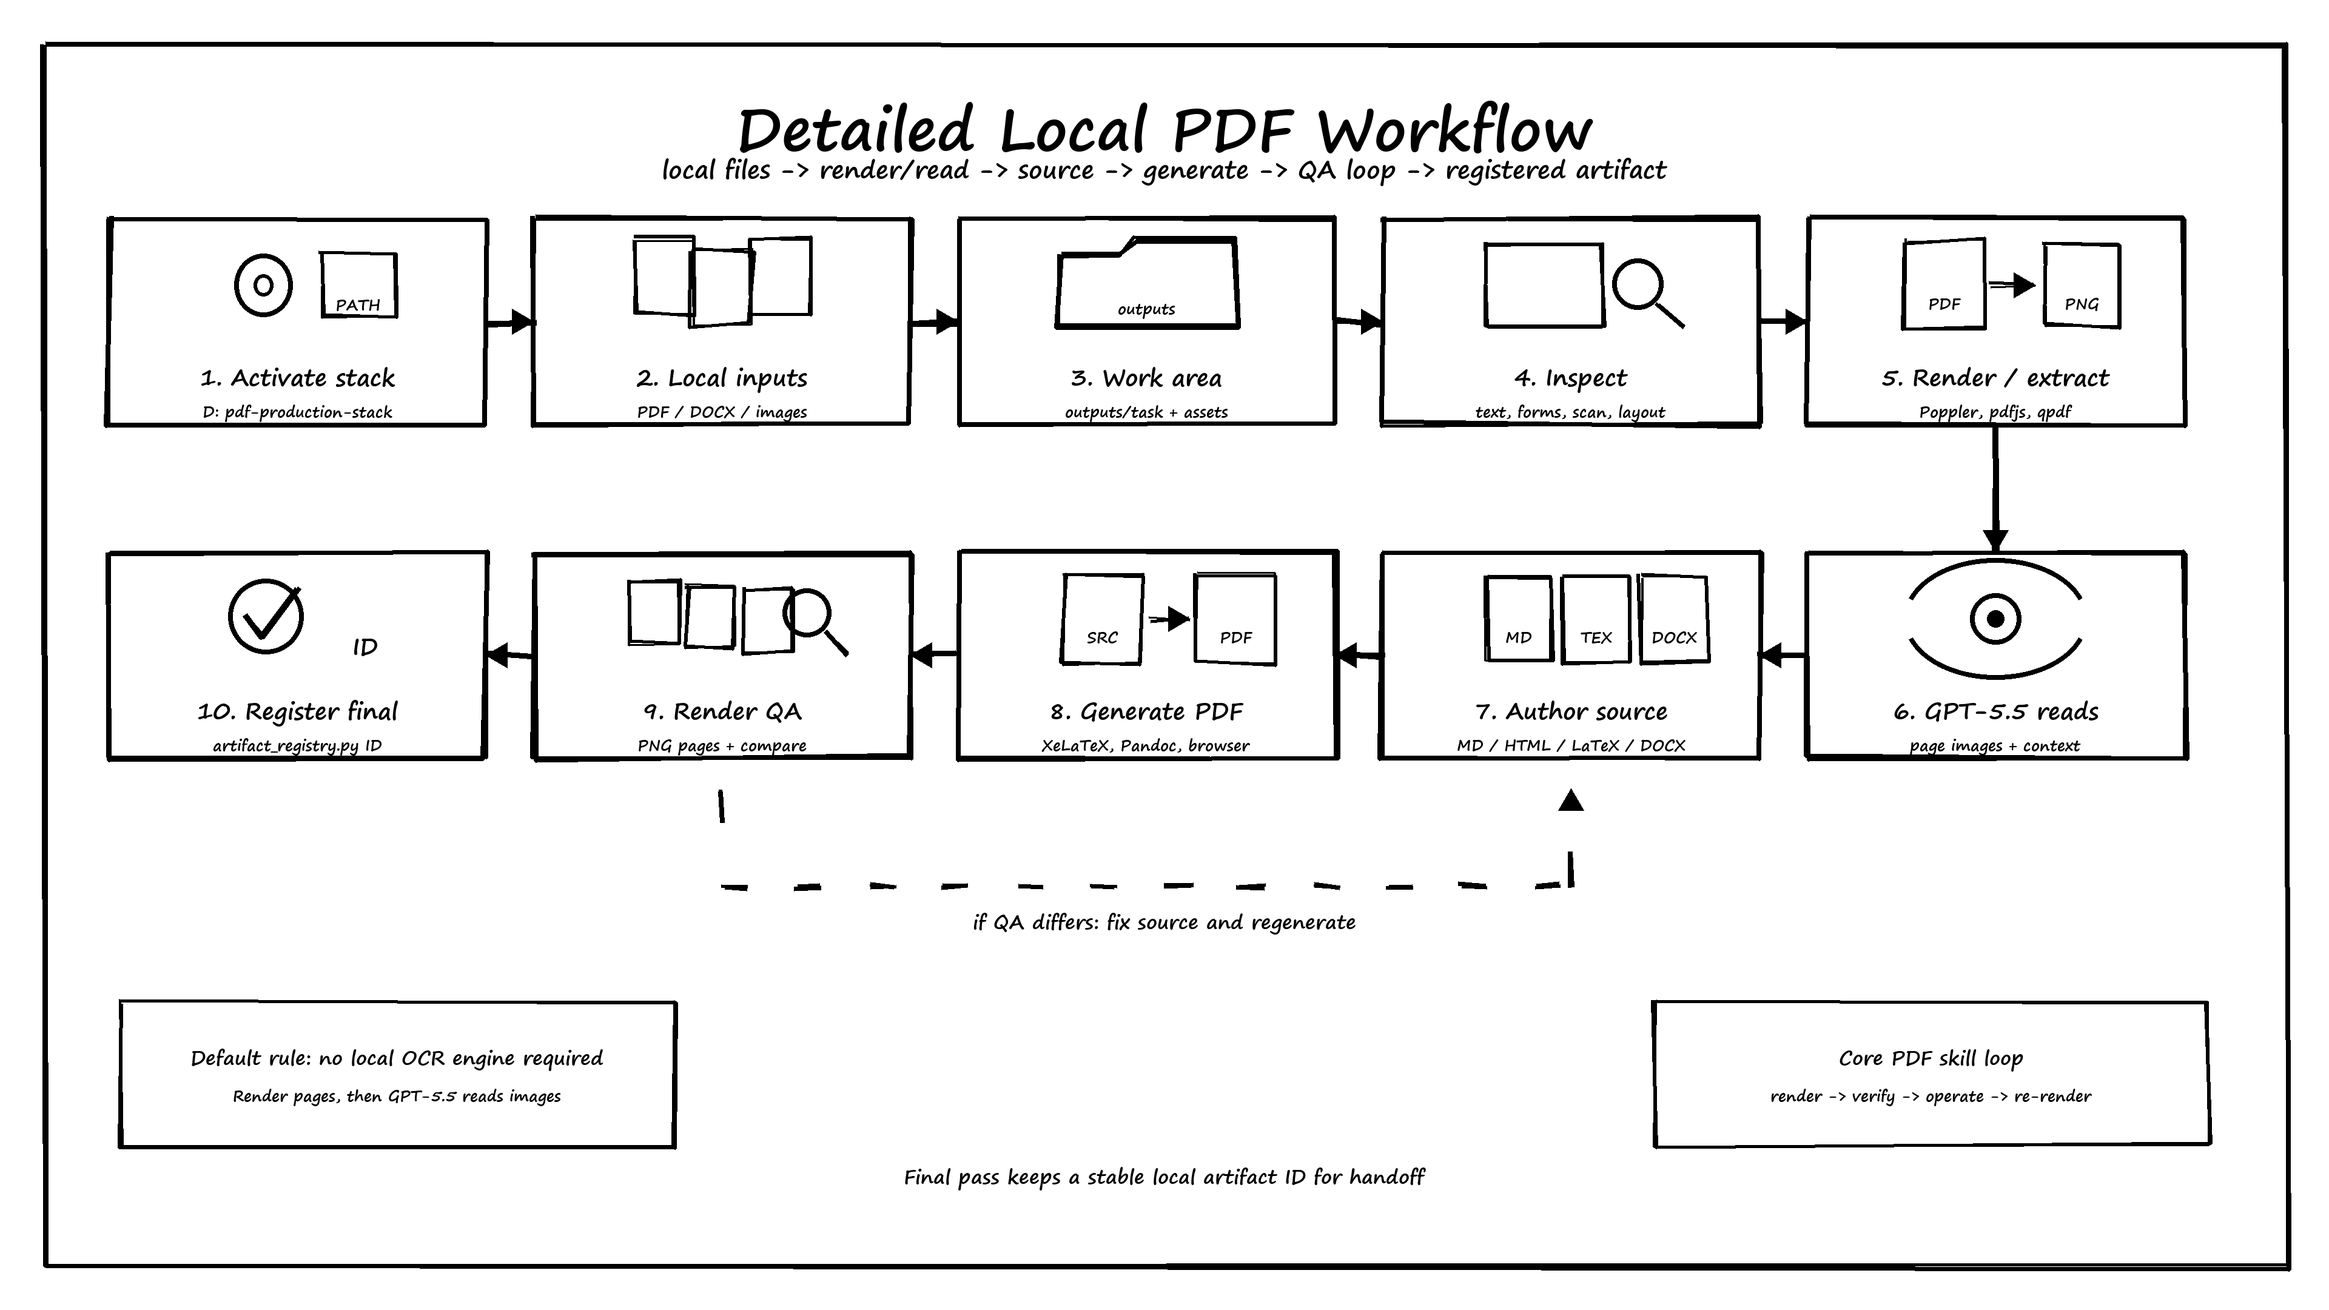
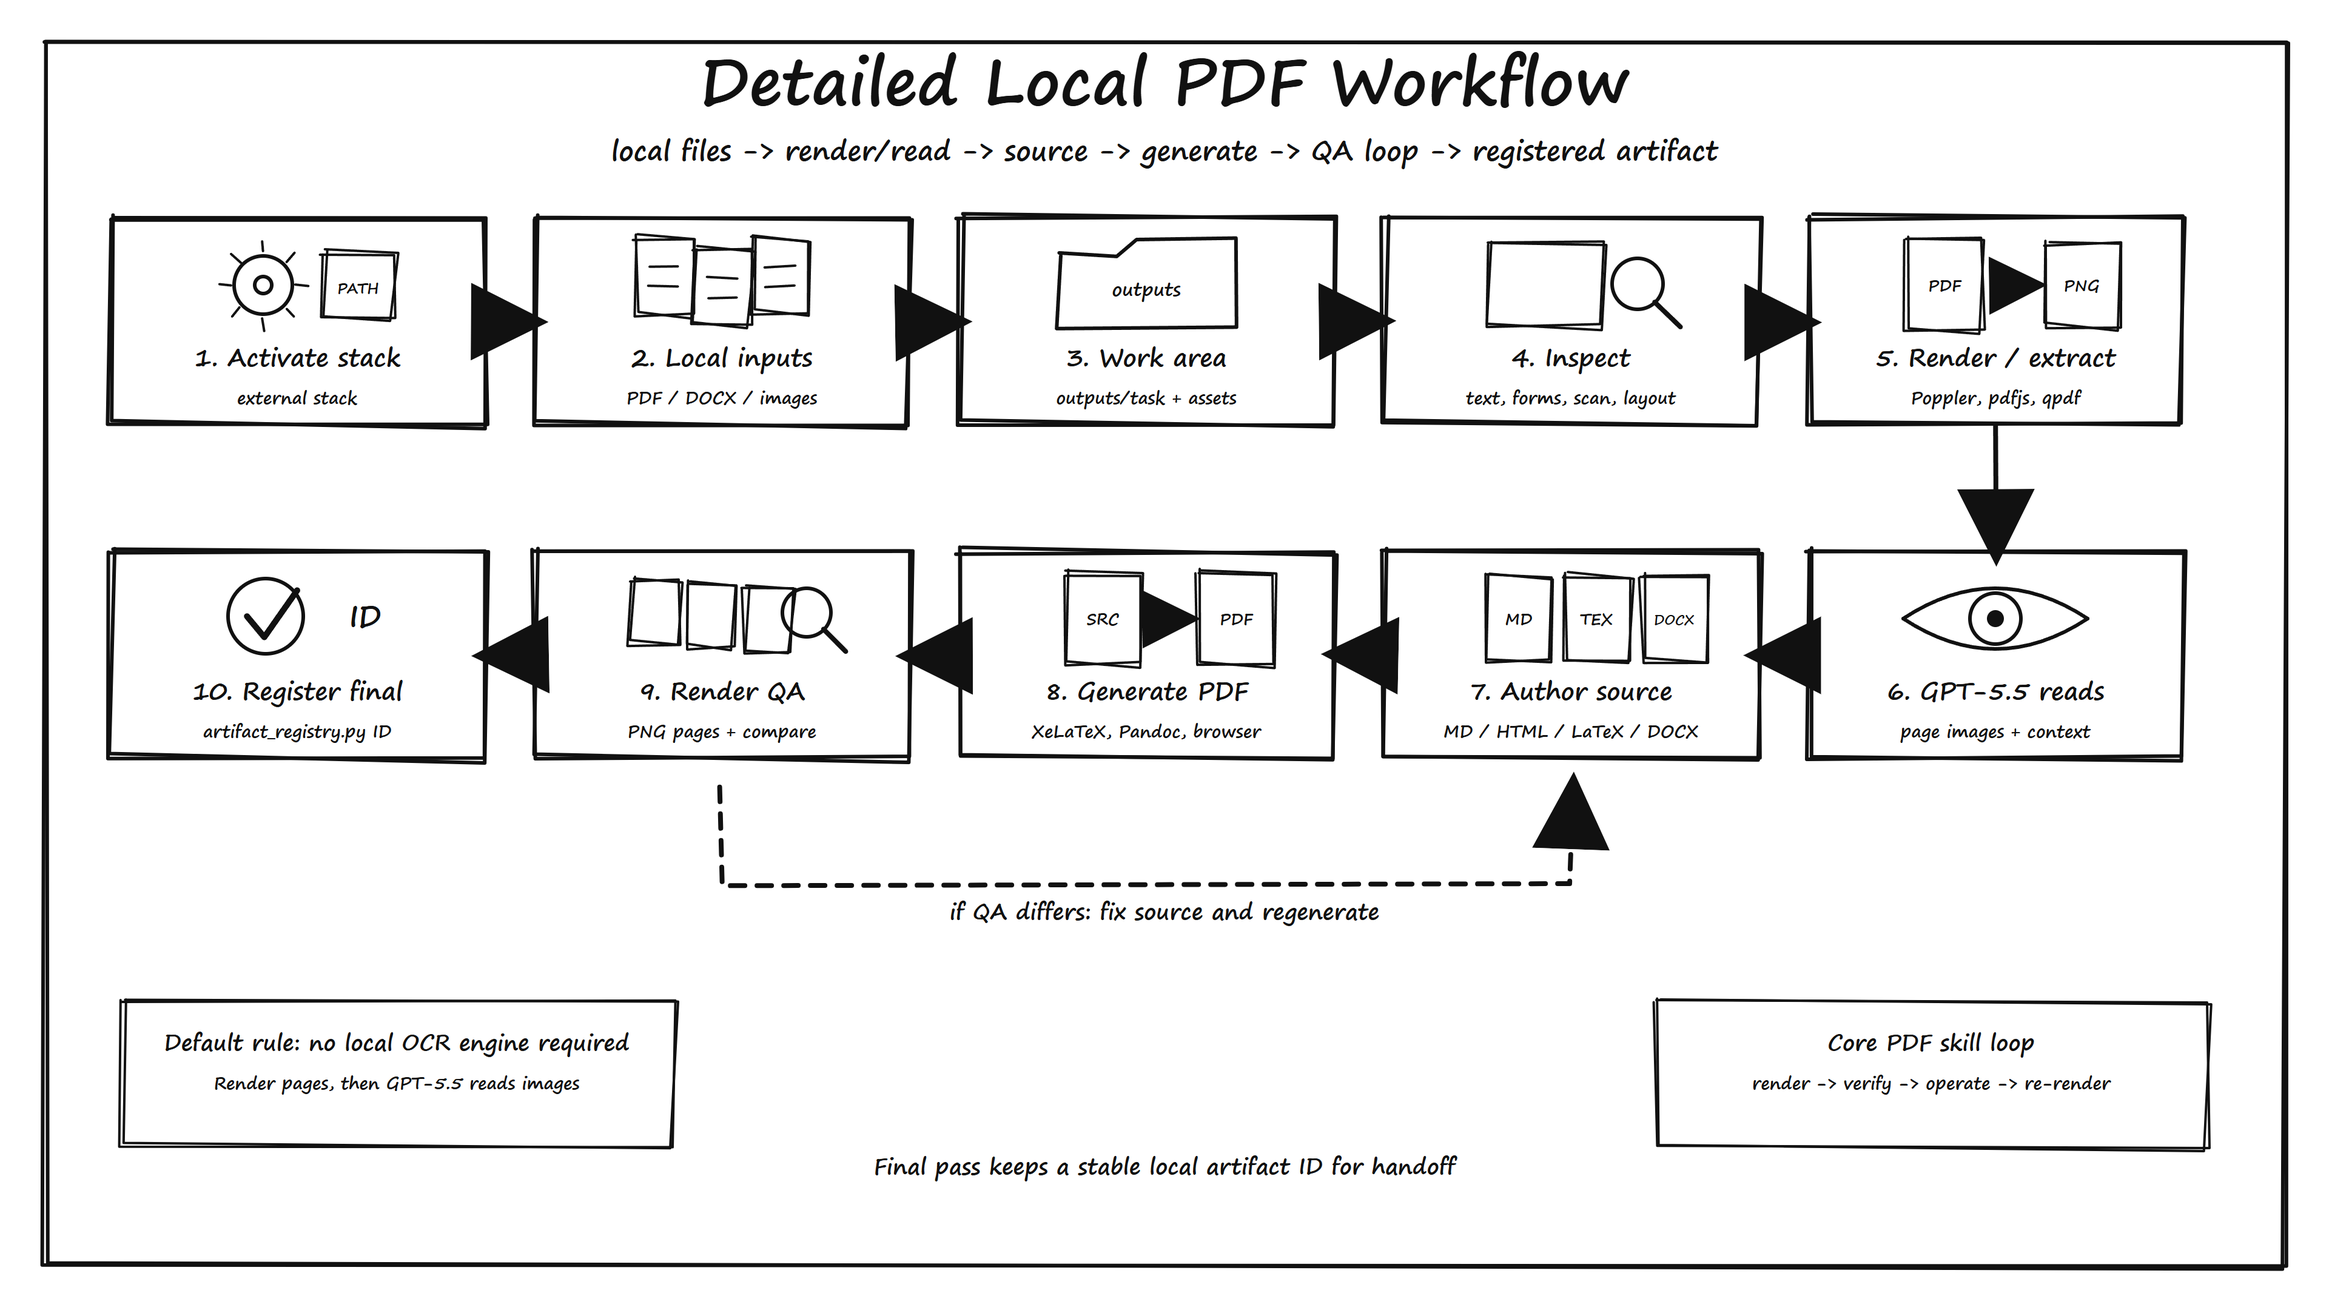
docs: sync pdf workflow standards

diff --git a/PDF_PRODUCTION_WORKFLOW.md b/PDF_PRODUCTION_WORKFLOW.md
@@ -24,21 +24,23 @@ Only after that should you inspect implementation files or use targeted search.
 Activate the repository workflow before running PDF production commands:
 
 ```powershell
-. .\scripts\activate.ps1
+. .\scripts\activate.ps1 -StackRoot <external-stack-root>
 ```
 
 The repository is the workflow source of truth. `scripts/activate.ps1` resolves the current clone as `VELLUM_REPO_ROOT`, then dot-sources the external stack activation script only to expose third-party tools and runtime paths for the current PowerShell session.
 
-On this machine the default external stack is:
+Set `PDF_PRODUCTION_STACK` for the current shell or pass `-StackRoot` explicitly.
+The external stack root is machine-local runtime state and should not be
+committed as a concrete absolute path:
 
 ```text
-D:\pdf-production-stack
+<external-stack-root>
 ```
 
-Use `-StackRoot` only when the external tools live elsewhere:
+Explicit activation example:
 
 ```powershell
-. .\scripts\activate.ps1 -StackRoot D:\pdf-production-stack
+. .\scripts\activate.ps1 -StackRoot <external-stack-root>
 ```
 
 The external stack provides:
@@ -70,22 +72,24 @@ pwsh -ExecutionPolicy Bypass -File .\scripts\smoke.ps1
 
 ## Stack Location
 
-Installed stack root on this machine:
+The external stack location is local machine state:
 
 ```text
-D:\pdf-production-stack
+<external-stack-root>
 ```
 
 Operational notes and uninstall instructions, if present at your stack root:
 
 ```text
-D:\pdf-production-stack\install-notes.md
+<external-stack-root>\install-notes.md
 ```
 
-Pre-existing qpdf dependency reused by this machine's stack:
+If a dependency such as `qpdf` is installed outside the external stack, expose it
+through the shell `PATH` or the external stack activation script rather than
+recording a machine-specific absolute path in repository docs:
 
 ```text
-D:\qpdf 12.3.2\bin\qpdf.exe
+<qpdf-bin>\qpdf.exe
 ```
 
 ## Non-OCR Rule
@@ -207,8 +211,8 @@ visual QA.
 Image insertion checks:
 
 - The referenced file exists before PDF generation.
-- The source uses relative paths, not `C:\...`, `D:\...`, or tool temporary
-  directories.
+- The source uses relative paths, not machine-specific absolute paths or tool
+  temporary directories.
 - The final PDF render shows the image on the intended page.
 - The image keeps its intended aspect ratio unless the task explicitly asks for
   a crop.
@@ -280,7 +284,9 @@ python .\skills\pdfs\scripts\create_montage.py .\outputs\task\qa-pages --out .\o
 
 For layout-sensitive pages, create focused crops from the final rendered pages.
 Prefer a structured crop spec so the crop boxes and the visual claim being
-verified are repeatable:
+verified are repeatable. Keep crop outputs in a separate directory from
+whole-page renders so the contact sheet cannot accidentally include old crop
+PNGs:
 
 ```powershell
 @'
@@ -291,7 +297,7 @@ verified are repeatable:
       "name": "figure-2-2",
       "source": "outputs/task/qa-pages/report-page-2.png",
       "box": [120, 180, 980, 720],
-      "output": "outputs/task/qa-pages/figure-2-2-crop.png",
+      "output": "outputs/task/qa-crops/figure-2-2-crop.png",
       "verifies": "caption, labels, and plotted geometry do not overlap",
       "checks": [
         "caption is fully visible and separated from the frame",
@@ -337,7 +343,8 @@ Before reporting a generated PDF complete:
 
 1. Render the final PDF after the last edit. Use a fresh task-specific QA
    directory or the local `render_pdf.py` script with a stable prefix so stale
-   PNGs from an earlier PDF cannot pollute the evidence.
+   PNGs from an earlier PDF cannot pollute the evidence. Keep that directory
+   limited to whole-page renders.
 2. Confirm `pdfinfo` page count, rendered PNG count, and expected page count
    match.
 3. Generate a contact sheet from the final page PNGs and inspect it for page
@@ -345,6 +352,8 @@ Before reporting a generated PDF complete:
    overlaps.
 4. Identify high-risk elements and create focused crop evidence for each one
    that could fail locally while looking acceptable in a contact sheet.
+   Save focused crop output under a separate directory such as
+   `outputs/<task>/qa-crops/`, not inside the whole-page render directory.
 5. For each focused crop, record concrete `checks` and `reject_if` conditions.
    The `verifies` sentence alone is not enough for final QA; it must be backed
    by itemized visual assertions such as label clearance, crop edge clearance,
@@ -392,6 +401,86 @@ completion evidence for diagram-heavy or formula-heavy PDFs. If a layout bug is
 found after delivery, the next fix must re-render the final PDF, regenerate the
 contact sheet and focused crops, update `qa-manifest.json`, and only then
 register the replacement artifact.
+
+## Analog Electronics And Circuit Schematic QA
+
+For standard textbook-style circuit diagrams, especially analog electronics
+amplifier circuits and AC/DC equivalent circuits, treat schematic standardness
+as a required QA invariant.
+
+For new or substantially revised textbook circuit bodies, prefer task-local
+`schemdraw` generators over hand-authored `circuitikz`. The committed
+`requirements.txt` includes `schemdraw` and `matplotlib`; `doctor.ps1` checks
+those dependencies. Generate source-controlled-by-code assets under the task
+output directory, normally:
+
+```text
+outputs/<task>/generate_circuit_assets.py
+outputs/<task>/circuits/<asset>.pdf
+```
+
+Reference generated PDF circuit assets from LaTeX with relative paths:
+
+```latex
+\includegraphics[width=.82\linewidth]{circuits/common-emitter-full.pdf}
+```
+
+For legacy `circuitikz` figures that remain in LaTeX source, draw resistors,
+capacitors, independent sources, controlled sources, and related components on
+horizontal or vertical `to[...]` paths unless the schematic convention
+explicitly requires a diagonal component. If two nodes differ in both x and y,
+route with ordinary wire segments first, then place the component on an
+orthogonal segment.
+
+Circuit contracts for analog amplifier and equivalent-circuit figures:
+
+- Output coupling branches in common-emitter and common-collector diagrams must
+  use a horizontal `C_2` followed by a vertical `R_L` to the reference rail.
+- Emitter bypass branches must draw `C_E` vertically on an emitter-side branch
+  separated from `R_L`, `C_2`, output voltage labels, and load labels.
+- Parallel AC load equivalents must show parallel load branches as vertical
+  elements connected by horizontal top and bottom rails.
+- Collector voltage test leads such as `U_C` must be horizontal from the
+  collector node unless a real schematic convention requires otherwise.
+- Do not mix collector-to-reference and collector-emitter voltage semantics in
+  one ambiguous annotation. `U_C` is collector-to-reference; `U_{CEQ}` is
+  collector-emitter quiescent measurement.
+- Voltage polarity helpers must use explicit distinct `plus` and `minus` node
+  coordinates and fail fast when the coordinates are identical. Do not place
+  `+` and `-` as unrelated labels around one terminal.
+- Small-signal BJT model figures must show distinct `b`, `c`, and `e` ports,
+  `u_{be}` and `u_{ce}` on clear endpoint pairs, a separated `r_{be}` branch,
+  an `i_b` arrow on its own lane, and a controlled current source labeled
+  `\beta i_b` on a separate collector-emitter branch.
+- Controlled-source direction must be consistent across related small-signal
+  figures in one PDF unless the figure explicitly documents a different
+  convention.
+- Full common-emitter schematics with a signal source must reserve separate
+  horizontal space for `u_s`, `R_s`, `u_i`, and `C_1`; avoid stacking source
+  resistance vertically above the source when it crowds input labels.
+- When matching a user-provided textbook reference, match semantic terminal
+  styling as well as geometry, including supply endpoint style and labels such
+  as `+V_{CC}` with `(+12V)` when the reference shows both.
+
+Circuit-specific failure conditions:
+
+- A `to[C]` or `to[R]` path connects coordinates with both x and y changed.
+- `R_L`, `C_2`, `C_E`, `U_C`, `u_o`, or polarity labels overlap or crowd.
+- A voltage marker places `+` and `-` on the same open dot, same endpoint, or
+  visually indistinguishable terminals.
+- One figure labels the same visual endpoint pair as both `U_C` and `U_{CEQ}`.
+- Related small-signal figures reverse `\beta i_b` direction without an
+  explicit convention note.
+- A converted circuit asset is registered without focused crops proving
+  orthogonal components, label clearance, voltage polarity endpoints, and
+  controlled-source direction.
+
+For circuit-heavy PDFs, `qa-manifest.json` must record the dependency decision,
+generated circuit asset list, build command, final render evidence, focused crop
+evidence, and manual inspection result. Focused crop specs must include concrete
+`checks` and `reject_if` items that reject slanted, stretched, rotated, or
+distorted component bodies; label collisions; same-endpoint voltage polarity;
+unclear port labels; and inconsistent controlled-source direction.
 
 ## Current Verified Artifacts
 

diff --git a/QUICKSTART.md b/QUICKSTART.md
@@ -7,21 +7,23 @@ Use this guide to verify the local PDF/DOCX workbench after cloning the reposito
 From the repository root:
 
 ```powershell
-. .\scripts\activate.ps1
+. .\scripts\activate.ps1 -StackRoot <external-stack-root>
 ```
 
 `vellum` is the workflow source of truth. The repository activation script resolves this clone as `VELLUM_REPO_ROOT`, then uses the external PDF stack only as a provider for MiKTeX/XeLaTeX, Pandoc, Poppler, Ghostscript, LibreOffice, qpdf, Python fallback, and Playwright Chromium.
 
-On this machine the default external stack is:
+Set `PDF_PRODUCTION_STACK` for the current shell or pass `-StackRoot` explicitly.
+The external stack root is local runtime state and should not be committed as a
+concrete absolute path:
 
 ```text
-D:\pdf-production-stack
+<external-stack-root>
 ```
 
-Use `-StackRoot` only when the external tools live somewhere else:
+Explicit activation example:
 
 ```powershell
-. .\scripts\activate.ps1 -StackRoot D:\pdf-production-stack
+. .\scripts\activate.ps1 -StackRoot <external-stack-root>
 ```
 
 The script prefers a repository-local `.venv` when present. If `.venv` is not present, it uses the external stack Python venv. If the external stack activation script is missing, use `skills/pdfs/docs/local-opencode-gpt55-install.md` for the minimal Python/JS setup and add optional system tools only when a task needs them.
@@ -158,7 +160,9 @@ python .\skills\pdfs\scripts\create_montage.py .\outputs\task\qa-pages --out .\o
 For dense diagrams, formulas, tables, captions, generated images, or pages
 changed late in the iteration, also save focused crop evidence from the final
 rendered pages. Prefer a saved crop spec so the checked region and visual claim
-are repeatable:
+are repeatable. Keep focused crop outputs in a separate directory such as
+`outputs/<task>/qa-crops/`; do not write crop PNGs into the whole-page render
+directory used by `create_montage.py`.
 
 ```powershell
 python .\skills\pdfs\scripts\crop_rendered_pages.py .\outputs\task\focused-crops.json --base_dir . --strict --json
@@ -172,6 +176,18 @@ math/physics diagrams, record the geometry invariant checked by the crop, such
 as point-on-curve alignment, tangent/normal direction, and label clearance.
 In final QA, each focused crop spec should include itemized `checks` and
 `reject_if` conditions so the crop cannot pass on a vague "looks fine" judgment.
+
+For analog electronics and textbook-style circuit schematics, also inspect
+circuit-specific invariants before registration. Prefer task-local `schemdraw`
+generators for new or substantially revised standard circuits, keep generated
+PDF assets under `outputs/<task>/circuits/`, and include them from LaTeX with
+relative `\includegraphics` paths. Legacy `circuitikz` figures must keep
+resistors, capacitors, sources, and controlled sources on horizontal or vertical
+component paths unless the schematic convention explicitly requires otherwise.
+Focused crops for circuit-heavy PDFs should reject slanted or distorted
+components, `C_2/R_L/C_E` overlap, unclear `U_C` versus `U_{CEQ}` semantics,
+same-endpoint voltage polarity marks, unclear BJT small-signal ports, and
+inconsistent `\beta i_b` controlled-source direction.
 
 ## 10. Register A Final Artifact
 
@@ -231,7 +247,7 @@ outputs/artifacts/registry.jsonl
 outputs/generated-pdf/
 outputs/full-stack-smoke/
 outputs/prod-ocr-workflow/
-D:\pdf-production-stack
+<external-stack-root>
 ```
 
-The repository contains the workflow, scripts, docs, and a registry example. It does not contain generated PDFs, QA renders, private input files, or the external D-drive tool stack.
+The repository contains the workflow, scripts, docs, and a registry example. It does not contain generated PDFs, QA renders, private input files, or the external local tool stack.

diff --git a/skills/pdfs/SKILL.md b/skills/pdfs/SKILL.md
@@ -17,7 +17,7 @@ searching for `.tex` files, running `rg latex`, or jumping directly into
 Read `PDF_PRODUCTION_WORKFLOW.md` and `QUICKSTART.md` first. Activate the
 repository workflow, run `scripts/doctor.ps1`, and run `scripts/smoke.ps1`
 before debugging or changing workflow entrypoints. The repository is the source
-of truth; `D:\pdf-production-stack` is only a provider of external tools.
+of truth; `<external-stack-root>` is only a provider of external tools.
 
 ## Before you touch PDFs: should this be DOCX/PPTX instead?
 
@@ -70,7 +70,9 @@ python ./skills/pdfs/scripts/render_pdf.py ./data/input.pdf --out_dir ./outputs/
 2. Inspect PNGs. Tables, figures, and layout are authoritative. For long
    documents, create a contact sheet for triage, then inspect focused crops of
    high-risk local regions such as dense diagrams, formulas, tables, captions,
-   generated images, or pages changed during the final iteration.
+   generated images, or pages changed during the final iteration. Keep focused
+   crop outputs in a separate directory from whole-page renders so contact
+   sheets cannot include crop PNGs.
 
 3. Perform the edit, extract, or create operation.
 
@@ -214,10 +216,18 @@ Quick map:
 - No clipped text, overlaps, black squares, or broken glyphs in rendered PNGs.
 - Contact sheets are triage only; diagram-heavy, formula-heavy, or
   layout-sensitive PDFs also need focused crop evidence from the final rendered
-  pages.
+  pages, with crop PNGs kept outside the whole-page render directory.
 - After any layout-sensitive fix, re-render the final PDF, regenerate the
   contact sheet and focused crops, and update the QA manifest or task notes
   before reporting completion.
+- For textbook-style analog electronics circuits, prefer task-local `schemdraw`
+  generators for new or substantially revised standard schematics. Legacy
+  `circuitikz` components should be horizontal or vertical unless a real
+  schematic convention requires a diagonal component.
+- Circuit-heavy PDF crops should explicitly reject slanted or distorted
+  components, label overlap, same-endpoint voltage polarity marks, ambiguous
+  `U_C` versus `U_{CEQ}` measurements, unclear BJT small-signal ports, and
+  inconsistent `\beta i_b` controlled-source direction.
 - Verify in at least one renderer (`pdfium` or `pdftoppm`). For tricky forms, verify in two.
 - Remove intermediate artifacts from the deliverable folder (keep only final PDFs).
 - Avoid Unicode dashes that some renderers mishandle; prefer ASCII `-`.

diff --git a/AGENTS.md b/AGENTS.md
@@ -41,7 +41,7 @@ The Vellum repository owns the workflow. The external stack is only a tool
 provider:
 
 ```text
-D:\pdf-production-stack
+<external-stack-root>
 ```
 
 Do not debug or tune workflow behavior from the external stack unless the
